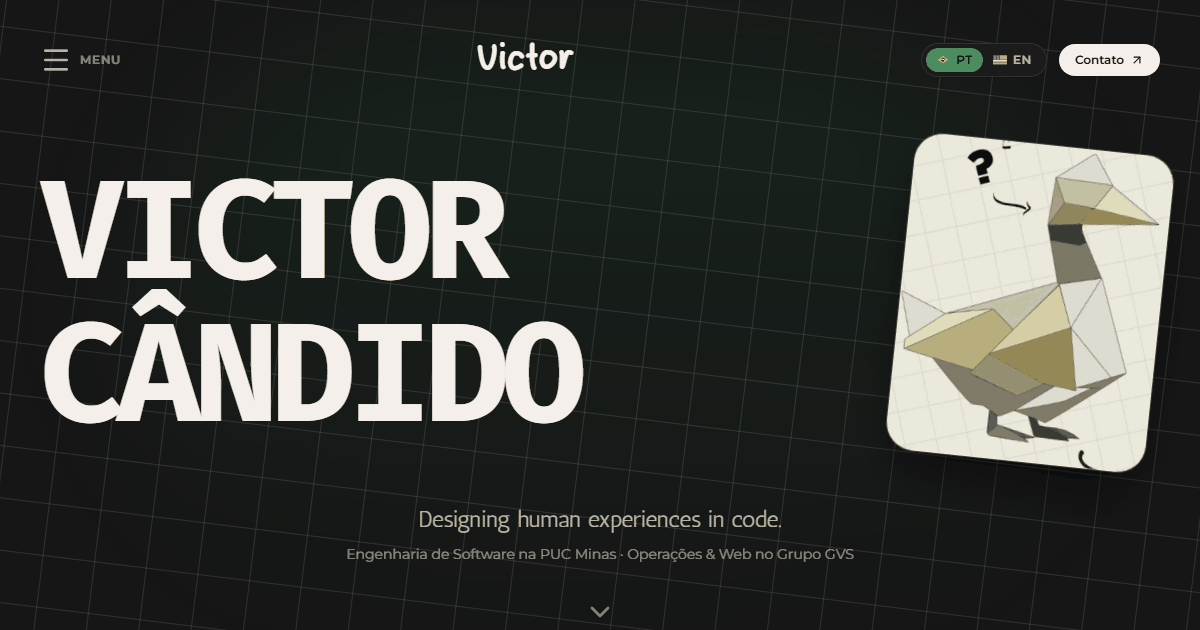
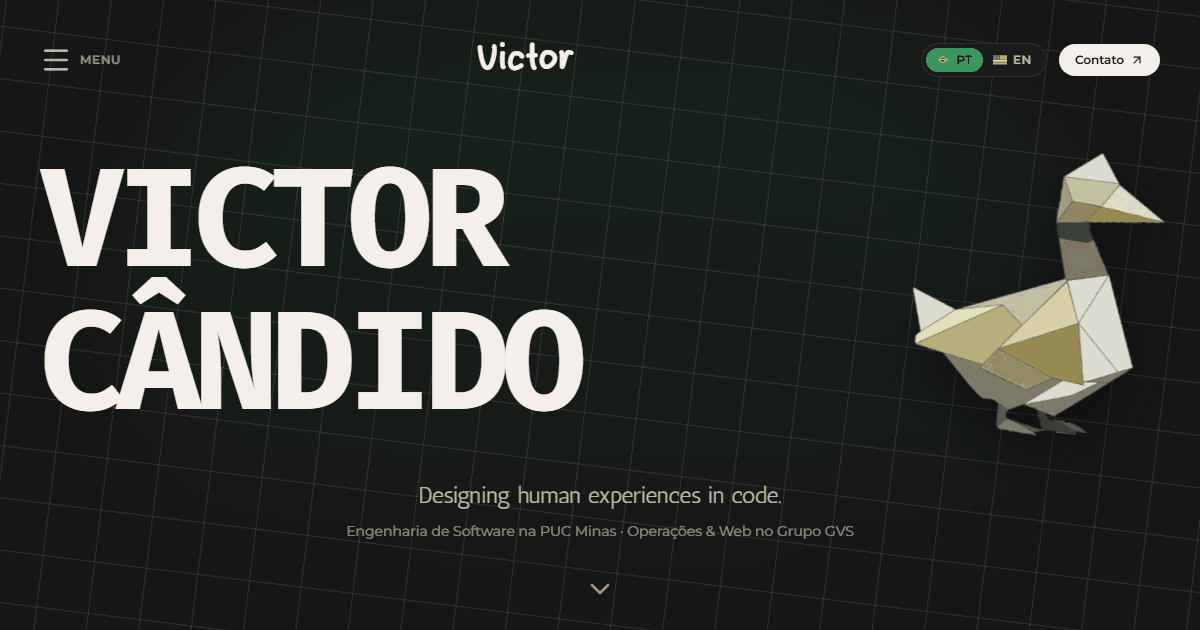
feat: pato recortado do fundo e um pouco mais alto que o nome no Hero
O pato sai do papel quadriculado, sem o ponto de interrogação, a seta e
a curva, e vira WebP com transparência (30 KB). A altura acompanha o
tamanho de fonte do nome (2,1em contra 1,8em das duas linhas), então
fica um pouco maior que o texto em qualquer largura. Prévia de link
recapturada.

diff --git a/src/components/Hero.jsx b/src/components/Hero.jsx
@@ -187,15 +187,17 @@ export default function Hero() {
             </div>
           </div>
 
-          {/* Pato: entra com zoom elástico e um giro curto para a direita */}
-          <div className="self-end lg:self-auto shrink-0">
+          {/* Pato: entra com zoom elástico e um giro curto para a direita.
+              Mesmo tamanho de fonte do nome: com altura em em, o pato fica um
+              pouco mais alto que as duas linhas (1,8em) em toda largura de tela */}
+          <div className="self-end lg:self-auto shrink-0 text-[72px] sm:text-[120px] md:text-[150px] lg:text-[140px] xl:text-[180px] leading-none">
             <img
               ref={duckRef}
-              src="/pato.png"
+              src="/pato.webp"
               alt=""
-              width={341}
-              height={417}
-              className="w-[180px] sm:w-[230px] lg:w-[260px] xl:w-[320px] h-auto rounded-[28px] ring-1 ring-cream/20 shadow-2xl shadow-black/60 select-none will-change-transform"
+              width={664}
+              height={788}
+              className="h-[2.1em] w-auto drop-shadow-[0_24px_32px_rgb(0_0_0/0.45)] select-none will-change-transform"
               loading="eager"
               draggable={false}
             />
